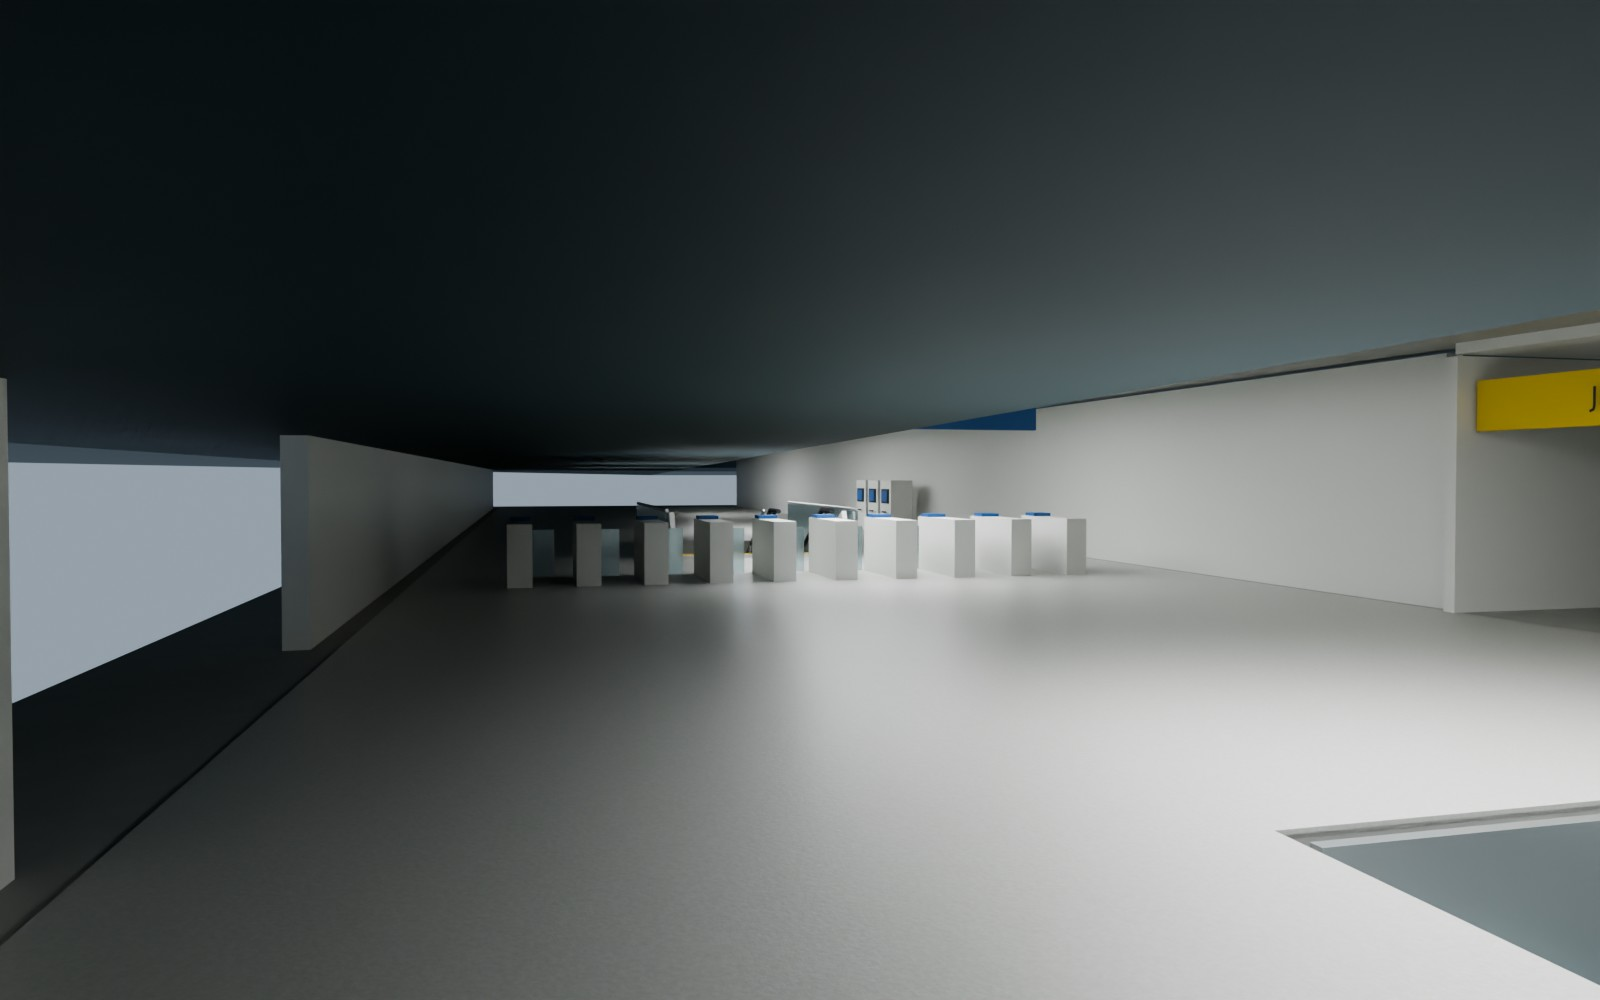
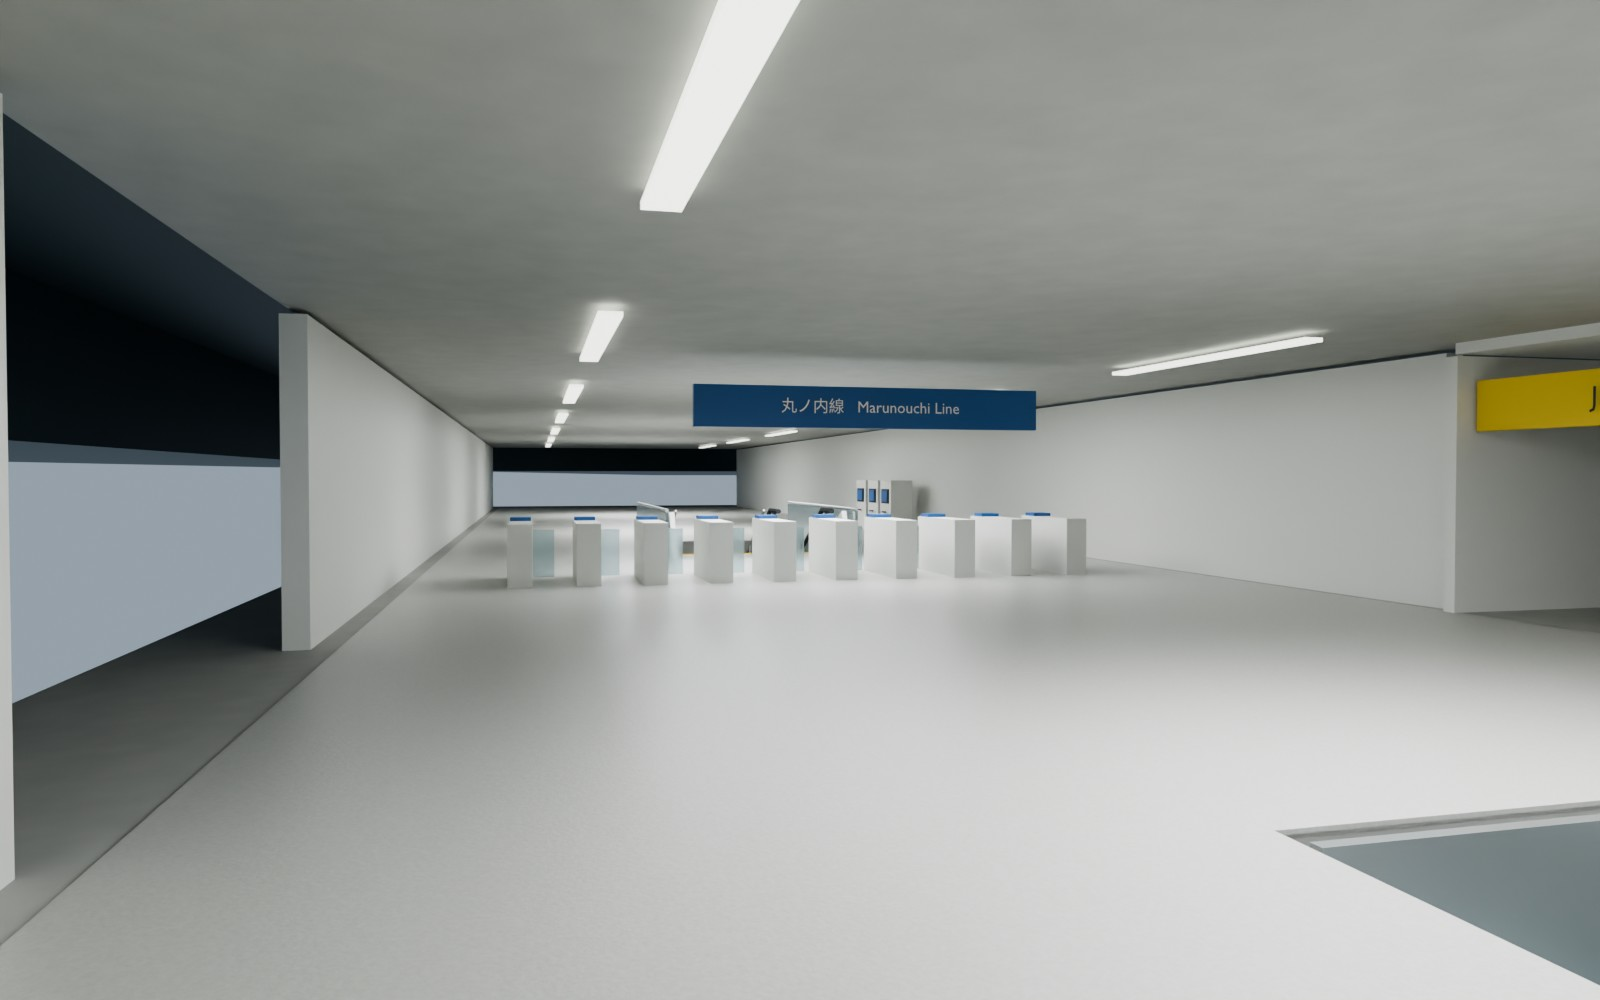
Keep the display-base bevel clear of the Metro concourse

diff --git a/scripts/validate11_refinement.py b/scripts/validate11_refinement.py
@@ -110,11 +110,12 @@ check('metro_stair_headroom',not head,required_m=2.10,obstructions=head[:40])
 # insufficient, because the editable station must work in the normal main scene.
 voidhits=[]
 for name in ('Display base','Studio floor'):
-    t=tree(bpy.data.objects[name],FI)
-    for x in (-55,0,55):
-        loc,n,idx,dist=t.ray_cast(Vector((x,0,G.B1+.1)),Vector((0,0,1)),3.0)
-        if loc is not None:voidhits.append({'object':name,'point':list(loc)})
-check('underground_display_void',not voidhits,hits=voidhits)
+    t=tree(bpy.data.objects[name].evaluated_get(bpy.context.evaluated_depsgraph_get()),FI)
+    for x in np.linspace(-60,60,13):
+        for y in (-5.5,-3,0,3,5.5):
+            loc,n,idx,dist=t.ray_cast(Vector((x,y,G.B1+.1)),Vector((0,0,1)),3.15)
+            if loc is not None:voidhits.append({'object':name,'point':list(loc)})
+check('underground_display_void',not voidhits,evaluated_mesh=True,ray_samples=130,hits=voidhits)
 check('metro_content',R['counts'].get('marunouchi_2000_cars')==6 and R['counts'].get('metro_platform_door_pairs')==36 and R['counts'].get('metro_stair_escalator_banks')==3,counts=R['counts'])
 check('separate_cutaway','V11 Marunouchi cutaway' in bpy.data.scenes and bpy.data.scenes['V11 Marunouchi cutaway'].camera is not None)
 out['scope']='Geometry samples and source preservation; photographic similarity also requires visual review. This is not engineering clearance certification.'

diff --git a/scripts/mod11_marunouchi.py b/scripts/mod11_marunouchi.py
@@ -36,6 +36,10 @@ def station():
         old=bpy.data.objects.get(name)
         if not old:continue
         new=H.copy_replace(old)
+        # Bake the inherited outer-edge bevel before cutting the cavity. Leaving a
+        # wide bevel after a boolean can bridge the concave opening in the evaluated mesh.
+        bpy.context.view_layer.objects.active=new;new.select_set(True)
+        for previous in list(new.modifiers):bpy.ops.object.modifier_apply(modifier=previous.name)
         mod=new.modifiers.new('M17 underground void','BOOLEAN');mod.operation='DIFFERENCE';mod.solver='EXACT';mod.object=cutter
         bpy.context.view_layer.objects.active=new;new.select_set(True)
         bpy.ops.object.modifier_apply(modifier=mod.name);new.select_set(False)
